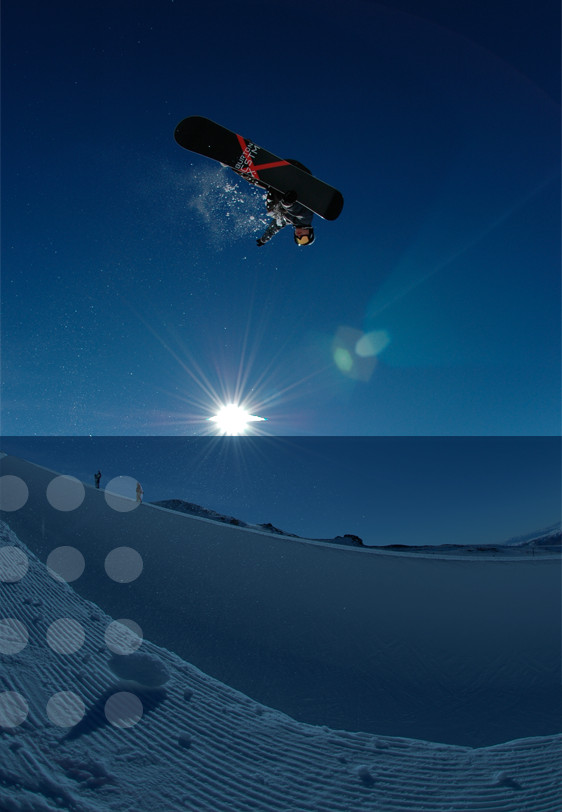
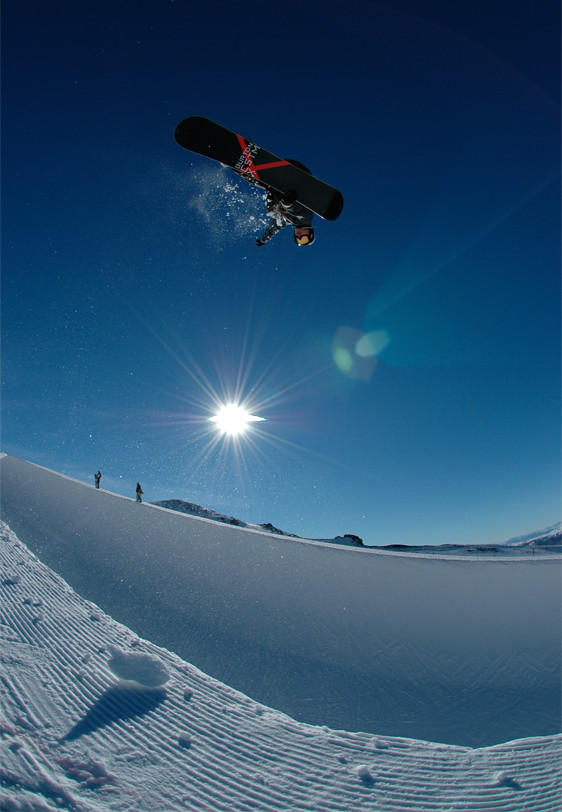
Completed implementation of home page. Fixed footer styles.

diff --git a/lib/css/main.css b/lib/css/main.css
@@ -149,6 +149,43 @@ ul.submenu ul {
     display: block;
 }
 
+#banners-text {
+    z-index: 15;
+    position: absolute;
+    bottom: 0;
+    left: 0px;
+    font-size: 17px;
+    color: white;
+    padding: 20px 40px 20px 0px;
+}
+
+#banners-text p {
+    z-index: 15;
+    background: url(/lib/images/circles_transparent.png) -20px center no-repeat;
+    padding-left: 110px;
+    padding-top: 25px;
+    margin: 0;
+}
+
+#banners-text-background {
+    z-index: -15;
+    background-color: #0e2942;
+    height: 100%;
+    width: 100%;
+    position: absolute;
+    top: 0;
+    left: 0;
+    /* Universal Opacity */
+    filter: alpha(opacity:0.83);
+    KHTMLOpacity: 0.83;
+    MozOpacity: 0.83;
+    -khtml-opacity:.83;
+    -ms-filter:”alpha(opacity=83)”;
+    -moz-opacity:.83;
+    filter:alpha(opacity=83);
+    opacity:.83;
+}
+
 #content-text {
     padding-left: 371px;
     padding-top: 38px;
@@ -189,6 +226,16 @@ ul.submenu ul {
     padding: 48px 75px;
 }
 
+#page-body-home {
+    width: 560px;
+    float: right;
+    padding: 30px 70px 0 0;
+}
+
+#page-body-home-text {
+    padding: 40px 0 0 120px;
+}
+
 #circles {
     z-index: 50;
     position: absolute;
@@ -215,6 +262,7 @@ ul.submenu ul {
 #footer {
     position: relative;
     background-color: #353535;
+    z-index: -50;
 }
 
 #footer-content {
@@ -231,11 +279,21 @@ ul.submenu ul {
     margin: 0;
 }
 
+#footer-content .social-text {
+    width: 60px;
+    float: left;
+    margin: 0;
+}
+
 #footer-content #social-icons {
     width: 510px; 
     margin: 0 auto 10px auto;
     padding-left: 340px;
     height: 15px;
+}
+
+#home-page #footer-content #social-icons {
+    padding-left: 650px;
 }
 
 #footer-content a {
@@ -248,3 +306,6 @@ ul.submenu ul {
     text-decoration: none;
 }
 
+#footer-message {
+    padding-top: 40px;
+}
